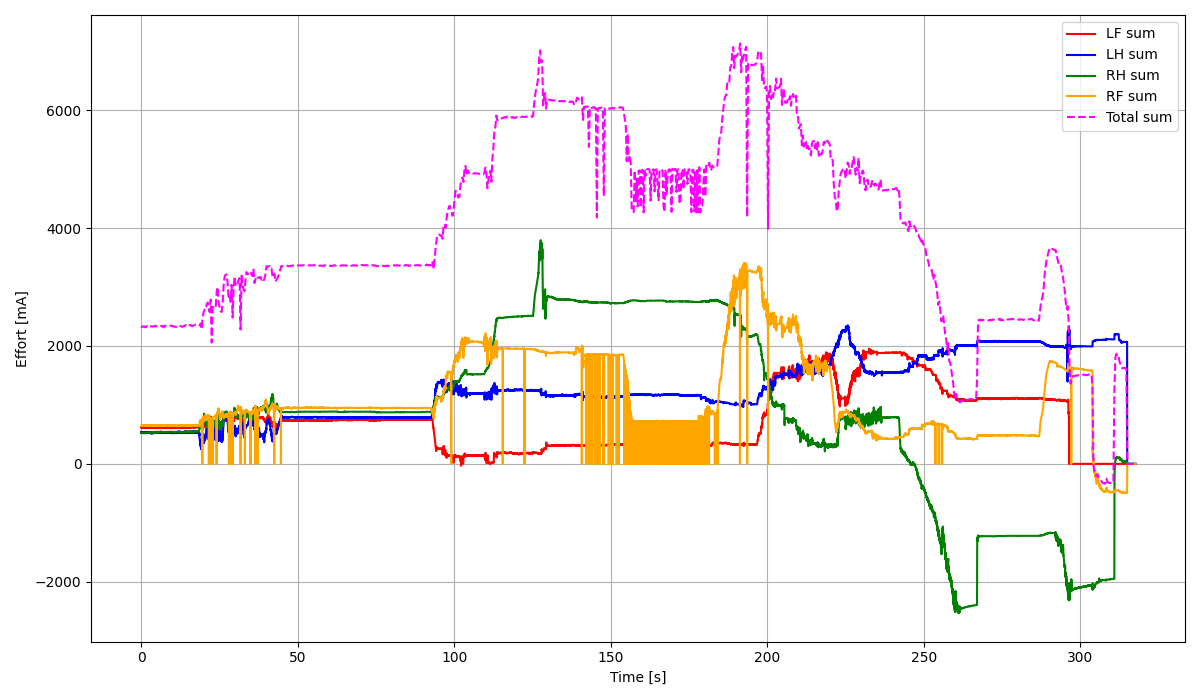
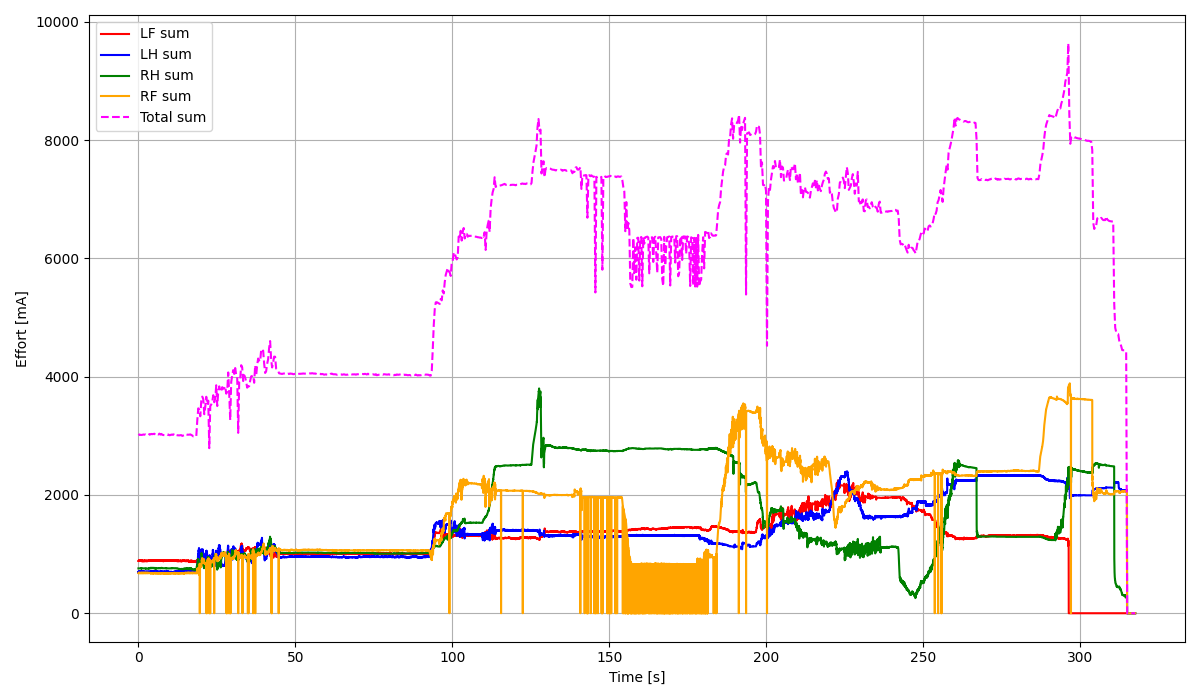
add abs()

diff --git a/src/total_current_value.py b/src/total_current_value.py
@@ -31,7 +31,7 @@ leg_dfs = []
 for rd, label, color in zip(rename_dicts, leg_labels, colors):
     df_leg = df_encoder[list(rd.keys())].rename(columns = rd).dropna() # remove NaN
     df_leg['relative_time'] = df_leg['time'] - df_leg['time'].iloc[0]
-    df_leg['effort_sum'] = df_leg[['B2C', 'C2F', 'F2T', 'T2E', 'steering', 'driving', 'gripper']].sum(axis = 1)
+    df_leg['effort_sum'] = df_leg[['B2C', 'C2F', 'F2T', 'T2E', 'steering', 'driving', 'gripper']].abs().sum(axis = 1)
     
     leg_dfs.append(df_leg[['relative_time', 'effort_sum']].copy())
     # plot per leg
